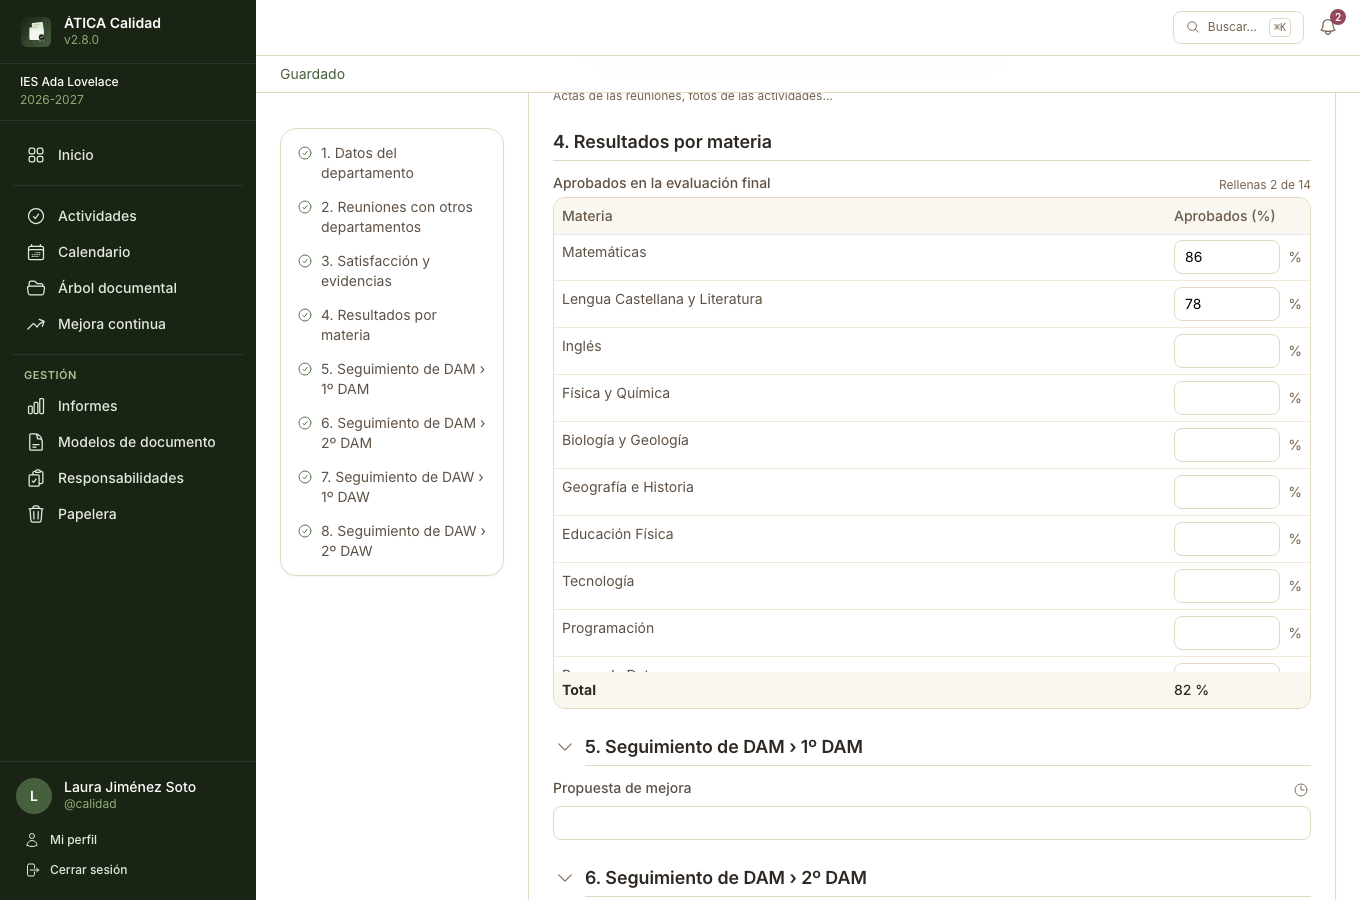
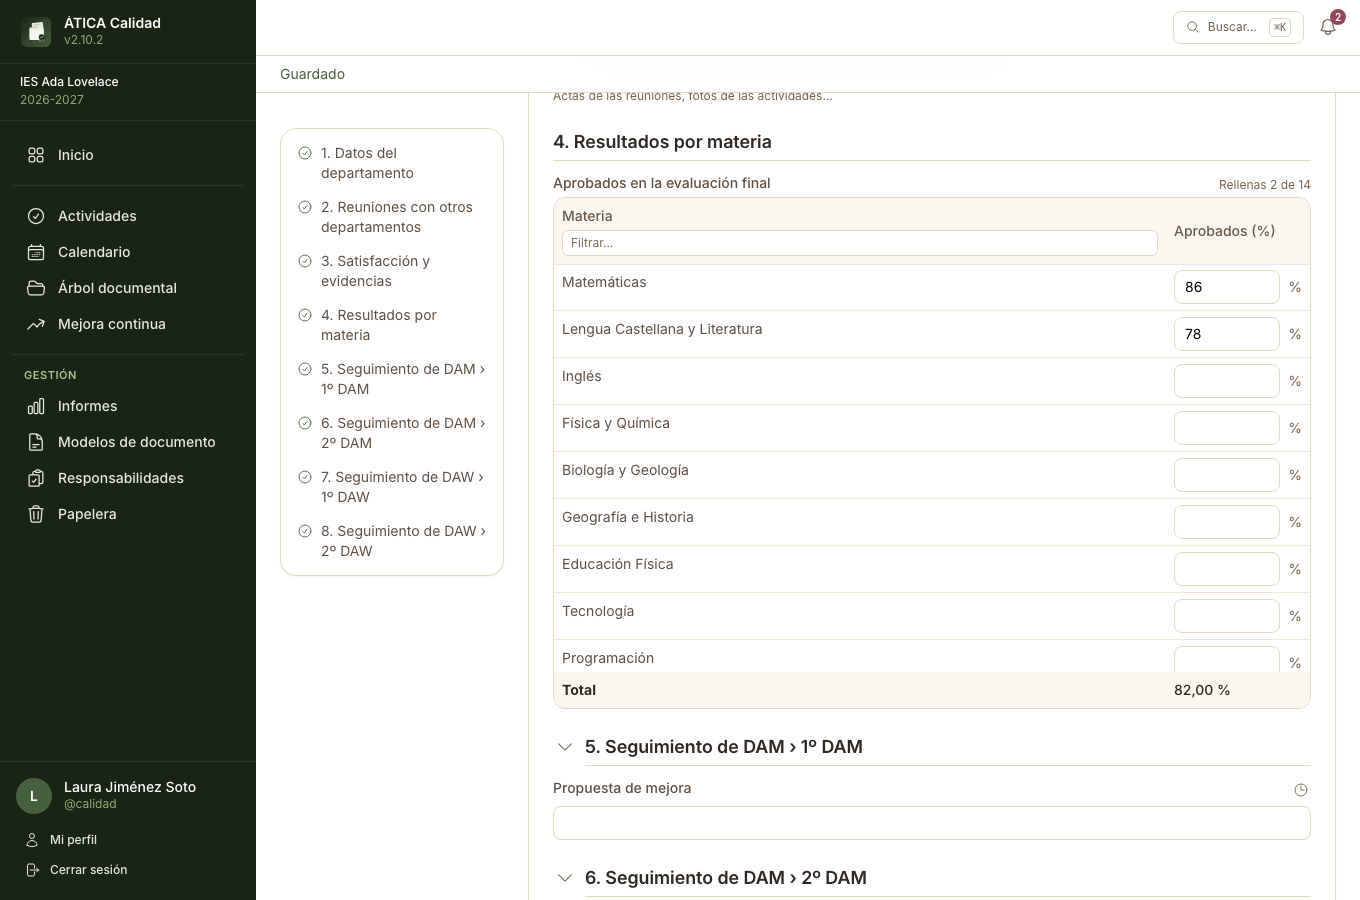
feat(forms): la media del pie de una tabla muestra los decimales que se indiquen (dos por defecto)
- Columna con total «Media»: nuevo ajuste «Decimales de la media» (0–6, totalDecimals; dos si no se dice otra cosa, o los de la columna si es calculada). La media se muestra siempre con ese número de decimales («82,33 %», «82,50 %») en pantalla, PDF, Word y OpenDocument; la suma, el mínimo y el máximo siguen como estaban. El campo del total con nombre usa los mismos decimales.
- Capturas y script del manual ajustados (el filtro de la primera columna es un input más).
- Tests de JS y de PHP gemelos.

Changed region(s): [[0.4015, 0.2489, 0.5559, 0.7467], [0.8647, 0.2178, 0.9574, 0.7778]]

diff --git a/assets/utils/form_scopes.js b/assets/utils/form_scopes.js
@@ -592,11 +592,16 @@ export function calculate(definition, data, index = buildIndex(definition)) {
     }
 }
 
-/** A number the way a column shows it (the twin of FormResolver::number()). */
-function numberText(value, column) {
-    const text = column.fieldType === 'calculated'
-        ? value.toFixed(Math.min(6, Math.max(0, column.decimals ?? 2))).replace('.', ',')
-        : String(round(value, 6)).replace('.', ',');
+/**
+ * A number the way a column shows it (the twin of FormResolver::number()): with `fixed` decimals when they are given (an average at the
+ * foot of a table); else a calculated column with its own decimals, and any other with as many as it has, up to six.
+ */
+function numberText(value, column, fixed = null) {
+    const text = fixed !== null
+        ? round(value, fixed).toFixed(fixed).replace('.', ',')
+        : column.fieldType === 'calculated'
+            ? value.toFixed(Math.min(6, Math.max(0, column.decimals ?? 2))).replace('.', ',')
+            : String(round(value, 6)).replace('.', ',');
     return column.unit ? text + ' ' + column.unit : text;
 }
 
@@ -627,7 +632,8 @@ export function totals(columns, rows, fields = {}) {
         if (result === null) {
             return '';
         }
-        return column.total === 'count' ? String(result) : numberText(result, column);
+        // An average has the decimals the column asks for (two by default: 82,33 and not 82,333333), always that many (82,50).
+        return column.total === 'count' ? String(result) : numberText(result, column, column.total === 'avg' ? Math.min(6, Math.max(0, column.totalDecimals ?? 2)) : null);
     });
 }
 

diff --git a/assets/controllers/form_model_editor_controller.js b/assets/controllers/form_model_editor_controller.js
@@ -1100,6 +1100,13 @@ export default class extends Controller {
             };
             parts.push(h('div', { class: 'flex flex-wrap items-end gap-3' }, [
                 this.labelled(this.l.total, this.select(spec.total || '', totalsList, (v) => { spec.total = v; this.changed(); }, this.l.total), 'w-48'),
+                // An average says how many decimals it shows (two, or those of a calculated column, if nothing was chosen).
+                ...(spec.total === 'avg' ? [this.labelled(this.l.total_decimals, this.select(
+                    String(spec.totalDecimals ?? (spec.fieldType === 'calculated' ? (spec.decimals ?? 2) : 2)),
+                    [0, 1, 2, 3, 4, 5, 6].map((n) => [String(n), String(n)]),
+                    (v) => { spec.totalDecimals = Number(v); this.touch(); },
+                    this.l.total_decimals,
+                ), 'w-40')] : []),
                 ...(spec.total ? [this.labelled(this.l.total_name, h('input', { class: INPUT, value: spec.totalName ?? '', maxlength: 255, placeholder: this.l.total_name_hint, oninput: named }), 'flex-1 basis-64')] : []),
             ]));
             if (spec.total === 'custom') {

diff --git a/tests/Unit/Service/Form/FormCalculationTest.php b/tests/Unit/Service/Form/FormCalculationTest.php
@@ -212,6 +212,38 @@ final class FormCalculationTest extends TestCase
         self::assertSame(['', '100', '', '160,00 €'], $units['totals']);
     }
 
+    /** The twin of «an average at the foot has the decimals the column asks for» of tests/js/form-scopes.test.mjs. */
+    public function testAnAverageAtTheFootHasTheDecimalsTheColumnAsksFor(): void
+    {
+        $def = $this->definitions->normalize(['sections' => [['title' => 'x', 'blocks' => [['type' => 'table', 'label' => 'Notas', 'mode' => 'free', 'columns' => [
+            ['label' => 'Media', 'fieldType' => 'number', 'total' => 'avg', 'unit' => '%'],
+            ['label' => 'Media 0', 'fieldType' => 'number', 'total' => 'avg', 'totalDecimals' => 0],
+            ['label' => 'Media 4', 'fieldType' => 'number', 'total' => 'avg', 'totalDecimals' => 4],
+            ['label' => 'Media 9', 'fieldType' => 'number', 'total' => 'avg', 'totalDecimals' => 9],
+            ['label' => 'Suma', 'fieldType' => 'number', 'total' => 'sum', 'totalDecimals' => 1],
+            ['label' => 'Máx', 'fieldType' => 'number', 'total' => 'max'],
+            ['label' => 'Calc', 'fieldType' => 'calculated', 'formula' => '1', 'decimals' => 4, 'total' => 'avg'],
+        ]]]]]]);
+        $table = $def['sections'][0]['blocks'][0];
+        $keys  = array_column($table['columns'], 'key');
+        self::assertSame([2, 0, 4, 6, 1, 2, 4], array_column($table['columns'], 'totalDecimals'), 'two by default, those of a calculated column, six at most (kept, though only an average uses it)');
+
+        [$avg, $avg0, $avg4, $avg9, $sum, $max, $calc] = $keys;
+        $rows = [];
+        foreach ([80, 85, 82] as $i => $n) {
+            $rows[] = ['_key' => 'a0000000-0000-4000-8000-00000000000' . ($i + 1), $avg => $n, $avg0 => $n, $avg4 => $n, $avg9 => $n, $sum => [0.1234567, 1, 0][$i], $max => [1.123456789, 1, 0][$i], $calc => [1, 1, 2][$i]];
+        }
+        $view = $this->resolver->resolve($def, ['fields' => [], 'texts' => [], 'tables' => [$table['key'] => $rows], 'copies' => []]);
+
+        // 247 / 3 = 82,3333…: always that many decimals, as the browser says.
+        self::assertSame(['82,33 %', '82', '82,3333', '82,333333', '1,123457', '1,123457', '1,3333'], $view[0]['blocks'][0]['totals']);
+
+        // The same with one thing to round both ways: 1 and 2 average 1,5.
+        $rows2 = [['_key' => 'b0000000-0000-4000-8000-000000000001', $avg => 1], ['_key' => 'b0000000-0000-4000-8000-000000000002', $avg => 2]];
+        $view2 = $this->resolver->resolve($def, ['fields' => [], 'texts' => [], 'tables' => [$table['key'] => $rows2], 'copies' => []]);
+        self::assertSame('1,50 %', $view2[0]['blocks'][0]['totals'][0]);
+    }
+
     public function testCalculatedValuesAreFormattedWithTheirDecimals(): void
     {
         $def    = $this->definition();

diff --git a/src/Service/Form/FormResolver.php b/src/Service/Form/FormResolver.php
@@ -259,22 +259,26 @@ final class FormResolver
                 'min'   => $numbers === [] ? null : min($numbers),
                 default => $numbers === [] ? null : max($numbers),
             };
-            $out[] = $result === null ? '' : ($kind === 'count' ? (string) $result : $this->number((float) $result, $column));
+            // An average has the decimals the column asks for (two by default: 82,33 and not 82,333333), always that many (82,50).
+            $out[] = $result === null ? '' : ($kind === 'count' ? (string) $result : $this->number((float) $result, $column, $kind === 'avg' ? min(6, max(0, FormDefinition::int($column['totalDecimals'] ?? 2))) : null));
         }
 
         return $out;
     }
 
     /**
-     * A number the way a column shows it: its decimals when it is calculated (otherwise as many as it has, up to six) and its unit.
+     * A number the way a column shows it: with $fixed decimals when it is given (an average at the foot of a table), else its own when it
+     * is calculated (otherwise as many as it has, up to six) — and its unit.
      *
      * @param array<string, mixed> $column
      */
-    private function number(float $value, array $column): string
+    private function number(float $value, array $column, ?int $fixed = null): string
     {
-        $text = ($column['fieldType'] ?? '') === 'calculated'
-            ? number_format($value, min(6, max(0, FormDefinition::int($column['decimals'] ?? 2))), ',', '')
-            : str_replace('.', ',', (string) round($value, 6));
+        $text = $fixed !== null
+            ? number_format(round($value, $fixed), $fixed, ',', '')
+            : (($column['fieldType'] ?? '') === 'calculated'
+                ? number_format($value, min(6, max(0, FormDefinition::int($column['decimals'] ?? 2))), ',', '')
+                : str_replace('.', ',', (string) round($value, 6)));
         $unit = FormDefinition::str($column['unit'] ?? '');
 
         return $unit === '' ? $text : $text . ' ' . $unit;

diff --git a/src/Service/Form/FormDefinitionNormalizer.php b/src/Service/Form/FormDefinitionNormalizer.php
@@ -618,7 +618,7 @@ final class FormDefinitionNormalizer
                     'label'     => $name !== '' ? $name : FormDefinition::str($column['label'] ?? ''),
                     'fieldType' => 'calculated',
                     'formula'   => $formula,
-                    'decimals'  => $fn === 'count' ? 0 : ($calculated ? FormDefinition::int($column['decimals'] ?? 2) : 2),
+                    'decimals'  => $fn === 'count' ? 0 : ($fn === 'avg' ? FormDefinition::int($column['totalDecimals'] ?? 2) : ($calculated ? FormDefinition::int($column['decimals'] ?? 2) : 2)),
                     'unit'      => $fn === 'count' ? '' : FormDefinition::str($column['unit'] ?? ''),
                 ])
                 + ['help' => '', 'visibleIf' => null, 'foot' => true];
@@ -761,6 +761,8 @@ final class FormDefinitionNormalizer
             'relLabel'  => $type === 'relation' ? ($this->reference($raw['relLabel'] ?? null) ?? '') : '',
             'multiple'  => $type === 'relation' && ($raw['multiple'] ?? false) === true,
             'total'     => in_array($total, FormDefinition::TOTALS, true) && in_array($type, FormDefinition::NUMERIC_TYPES, true) ? $total : '',
+            // The decimals of an average at the foot of the column (0–6): two, or, in a calculated column, the ones of the column itself.
+            'totalDecimals' => min(6, max(0, FormDefinition::int($raw['totalDecimals'] ?? ($calculated ? ($raw['decimals'] ?? 2) : 2)))),
             'points'    => $scale ? min(FormDefinition::SCALE_MAX_POINTS, max(FormDefinition::SCALE_MIN_POINTS, $points)) : 0,
             'lowLabel'  => $scale ? $this->text($raw['lowLabel'] ?? '', 60) : '',
             'highLabel' => $scale ? $this->text($raw['highLabel'] ?? '', 60) : '',

diff --git a/docs/manual/12-modelos-de-documento.md b/docs/manual/12-modelos-de-documento.md
@@ -100,7 +100,11 @@ Un modelo se compone de **secciones** (numeradas jerárquicamente, anidables) co
 - **Total al pie de una columna** numérica o calculada (cuenta, suma, media, mínimo o máximo): el
   valor se ve al final de la columna. Si le pones un **nombre**, además es un campo del documento
   (no se muestra aparte: está solo al pie de la tabla) y sirve en fórmulas, indicadores, reglas y
-  en el explorador de datos. «Cuenta» cuenta los valores rellenados, no las filas. Eliges qué valor
+  en el explorador de datos. «Cuenta» cuenta los valores rellenados, no las filas. Una **media**
+  muestra siempre el número de **decimales** que indiques en **Decimales de la media** (de 0 a 6; dos
+  si no dices otra cosa, o los de la propia columna si es calculada): «82,33 %» y no «82,333333 %», o
+  «82,50 %» en vez de «82,5 %». Vale igual en pantalla, en el PDF, en Word y en OpenDocument; una suma,
+  un mínimo o un máximo conservan los decimales que tengan (hasta seis). Eliges qué valor
   mostrar columna a columna (o ninguno) y, con **Personalizado**, escribes tú la fórmula del total
   (por ejemplo, máximo menos mínimo); un total personalizado es siempre un campo del documento.
 - **Tabla** de filas libres (quien rellena añade las que necesite, con un máximo), de filas fijas, de
@@ -326,7 +330,7 @@ Las secciones 4 y 5 salen de listas del catálogo. La tabla «Aprobados en la ev
 una fila por materia (quien entrega esta memoria no está asociado a ninguna, así que salen las 14),
 con la media al pie:
 
-![Sección «4. Resultados por materia»: la tabla «Aprobados en la evaluación final», con «Rellenas 2 de 14» sobre ella y una fila por materia que se desplaza dentro de su recuadro (Matemáticas 86 %, Lengua Castellana y Literatura 78 %, Inglés, Física y Química… hasta la FFEOE) y el total al pie, 82 %](img/modelos-filas-lista.png)
+![Sección «4. Resultados por materia»: la tabla «Aprobados en la evaluación final», con «Rellenas 2 de 14» sobre ella, el campo «Filtrar…» en la cabecera de su primera columna y una fila por materia que se desplaza dentro de su recuadro (Matemáticas 86 %, Lengua Castellana y Literatura 78 %, Inglés, Física y Química… hasta la FFEOE) y la media al pie, 82,00 %](img/modelos-filas-lista.png)
 
 Y la sección «Seguimiento» se repite una vez por curso de Formación Profesional, cada copia con el
 nombre de su curso en el título:

diff --git a/CHANGELOG.md b/CHANGELOG.md
@@ -15,6 +15,7 @@ a [Semantic Versioning](https://semver.org/lang/es/).
 
 ### Changed
 
+- Modelos de documento: el total al pie de una columna que es una **media** muestra siempre el número de decimales que se indique en el nuevo ajuste **Decimales de la media** (de 0 a 6; dos por defecto, o los de la propia columna si es calculada): «82,33 %» en vez de «82,333333 %», o «82,50 %». Vale en pantalla y en el PDF, Word y OpenDocument. La suma, el mínimo y el máximo siguen con sus decimales (hasta seis).
 - Actividades: en el formulario, «Completado» (A mano / Al entregar) pasa justo debajo de «Obligatoriedad», y «Opciones avanzadas» conserva solo lo de ocultar la actividad.
 - **Las guías de despliegue pasan a ser anexos del manual** (anexos 15 a 18: despliegue en Plesk, instalación manual en Ubuntu Server, despliegue continuo en Ubuntu Server y exposición con Cloudflare Tunnel). Antes vivían aparte, en `docs/despliegue/`, y solo se leían en GitHub; ahora salen en la web del manual, en su buscador y en el PDF, con los mismos avisos y estilo, y los capítulos de instalación y de administración de la plataforma enlazan a ellos. La carpeta `docs/despliegue/` desaparece; los comentarios de `dist/`, `compose.cloudflare.yaml` y `.env.example` apuntan a los nuevos capítulos. El anexo de Plesk deja de hablar de tareas programadas que no existen en esta aplicación («partes sin notificar») y lista las reales, y la tabla de capítulos del README incluye Mejora continua, Modelos de documento y los anexos.
 

diff --git a/skills/forms.md b/skills/forms.md
@@ -108,7 +108,10 @@ because a script cannot read them: add a new icon in both places; the Spanish la
 - **Calculated fields and columns** (`fieldType: calculated`, `formula`, `decimals`, `unit`): never typed (the normalizer drops what the
   browser sends), filled by `FormCalculator` after the data is cleaned, in up to four passes so a formula can read another calculated
   value; a cycle is a model problem. The result is stored with the data, so it is frozen with each delivered revision. A column can show a
-  **total at its foot** (`total`: sum, avg, min, max, count, or `custom` with a `totalFormula`, always a field and shown from its value),
+  **total at its foot** (`total`: sum, avg, min, max, count, or `custom` with a `totalFormula`, always a field and shown from its value;
+  an `avg` shows exactly `totalDecimals` decimals — 0–6, default 2, a calculated column's own `decimals` if none was given — in
+  `FormResolver::totals()` and its twin `totals()` of `form_scopes.js`, via `number($v, $column, $fixed)`; the other totals keep
+  «as many as they have, up to six»; the named total field of an `avg` gets the same `decimals`),
   display-only unless it has a `totalName`: then `totalKey` is also the key of
   a calculated field (`fn([t:TABLE.COL])`, `foot: true`) that `FormDefinitionNormalizer::footFields()` writes right after the table every
   time (stored `foot` blocks are dropped and remade; the editor hides them). `FormWalker` / `walk()` mark it not visible, so nothing
